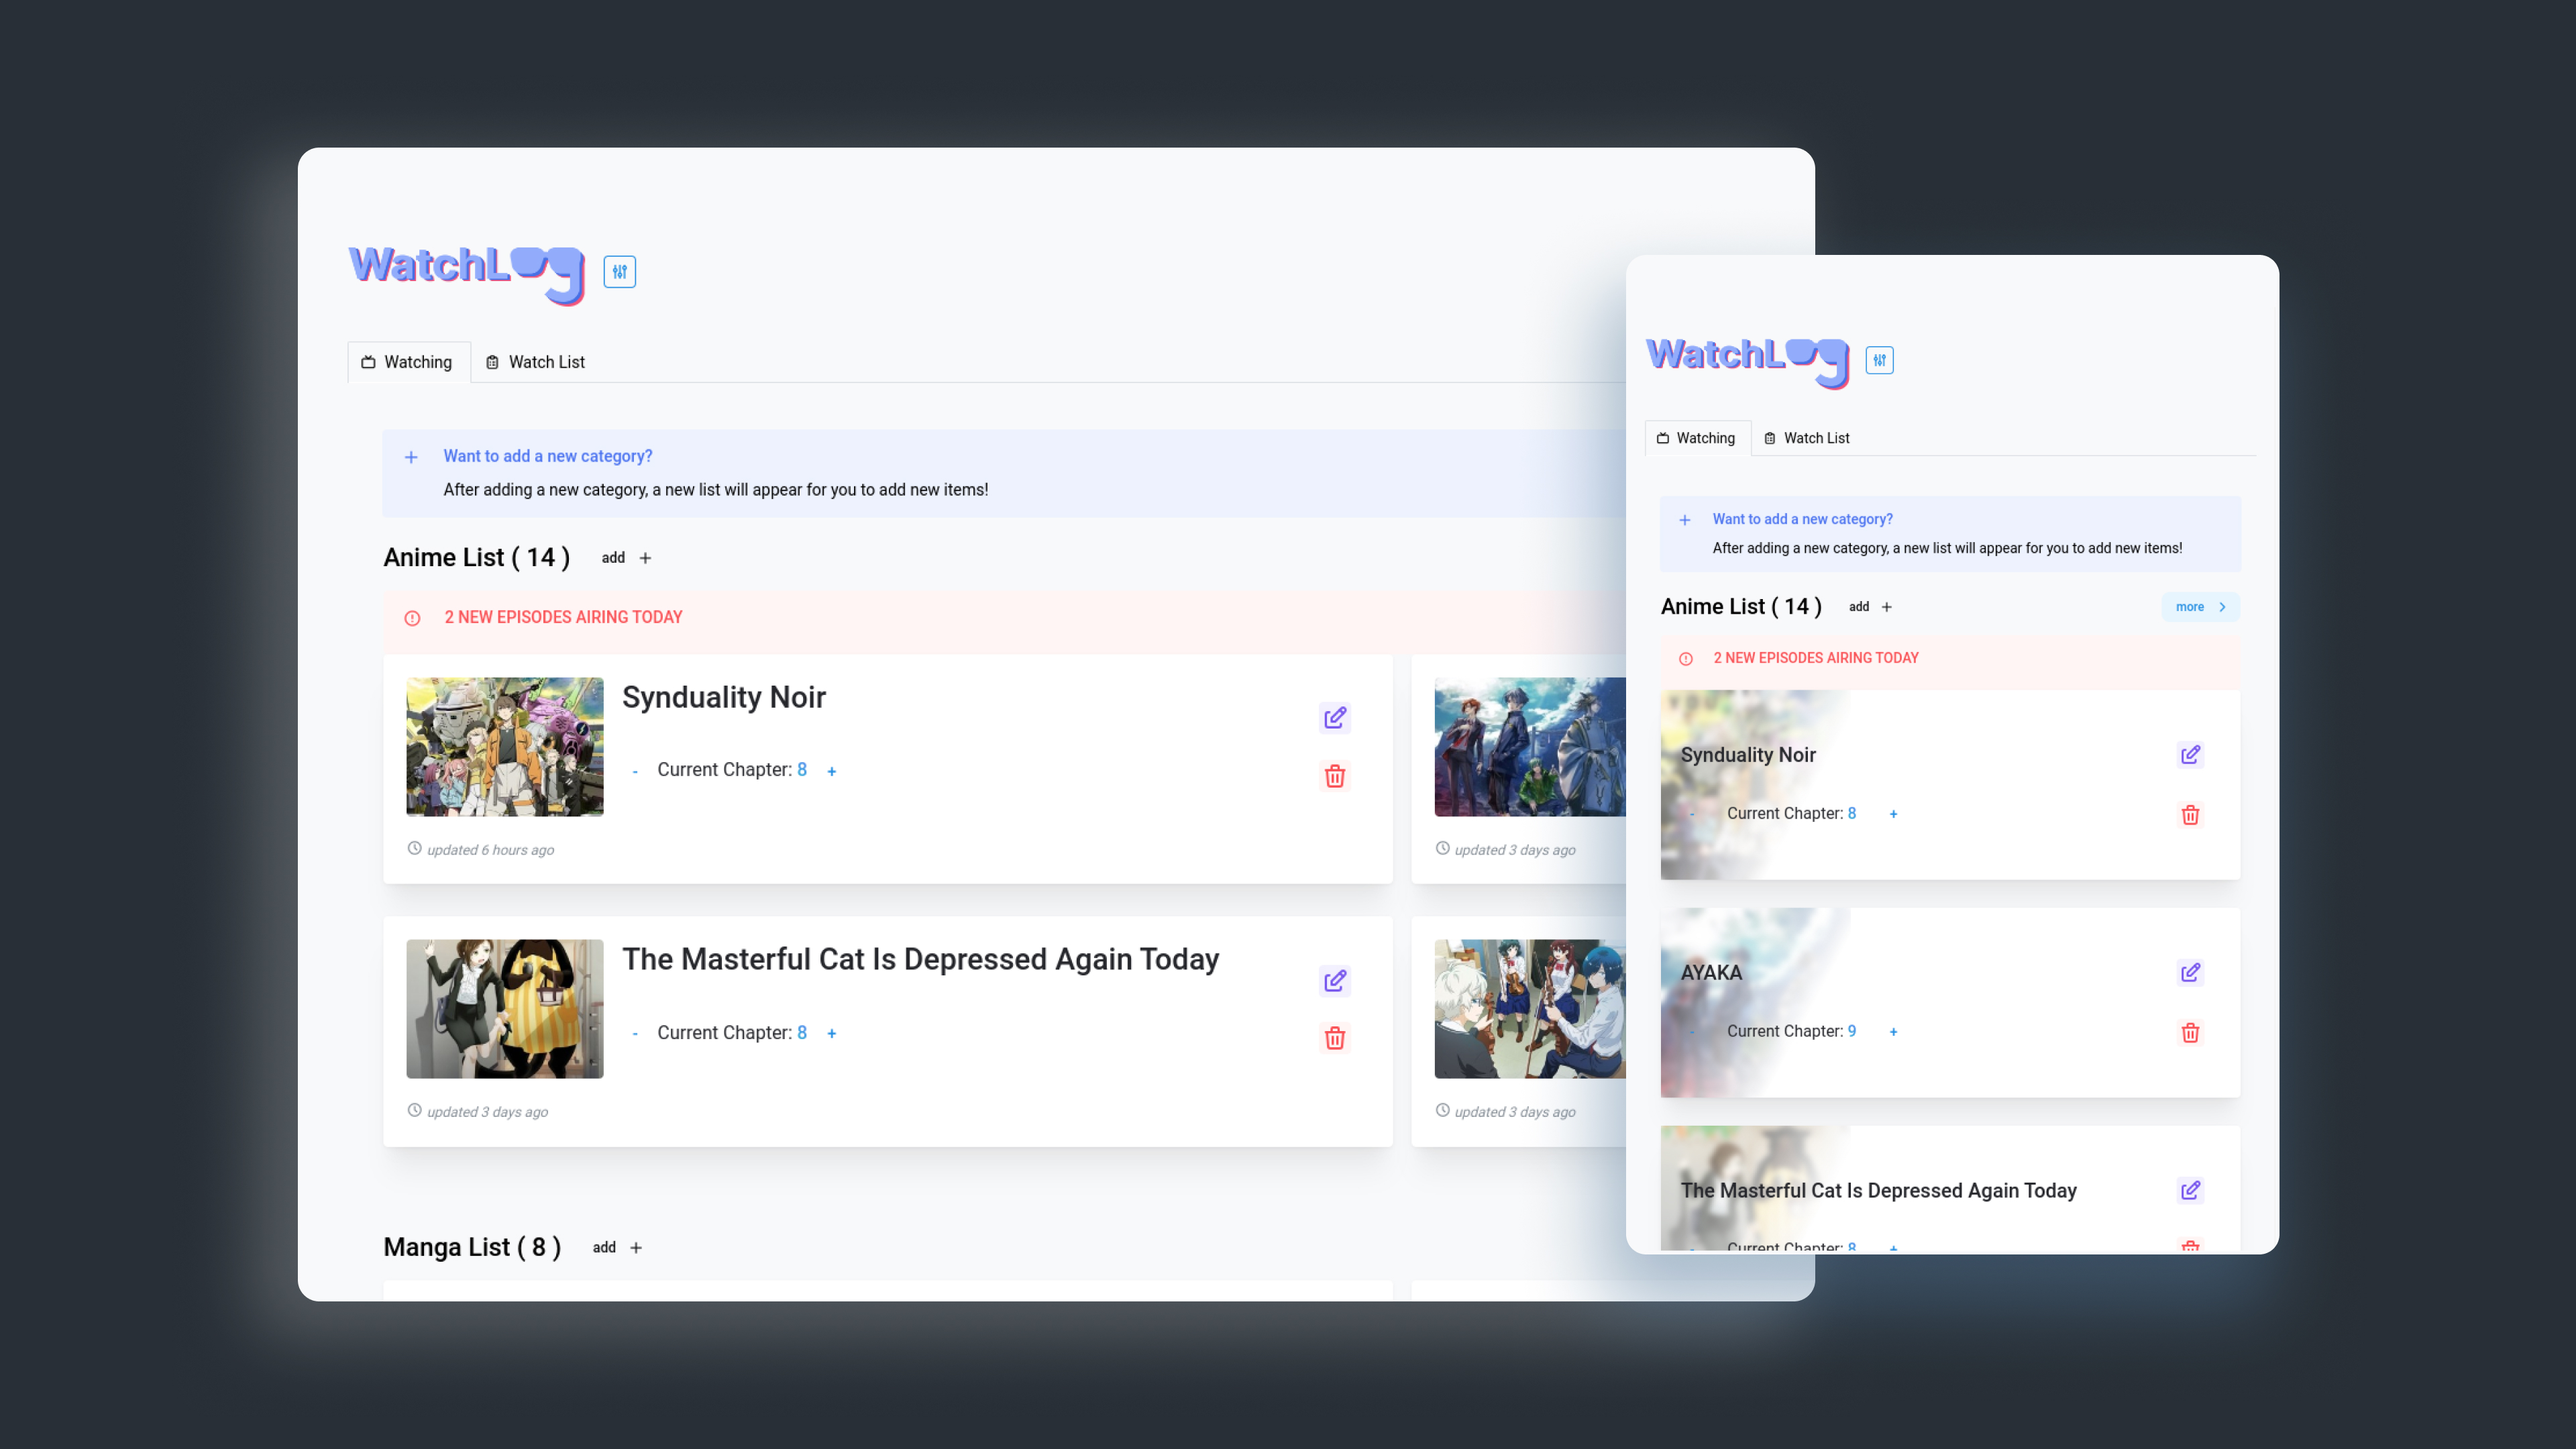
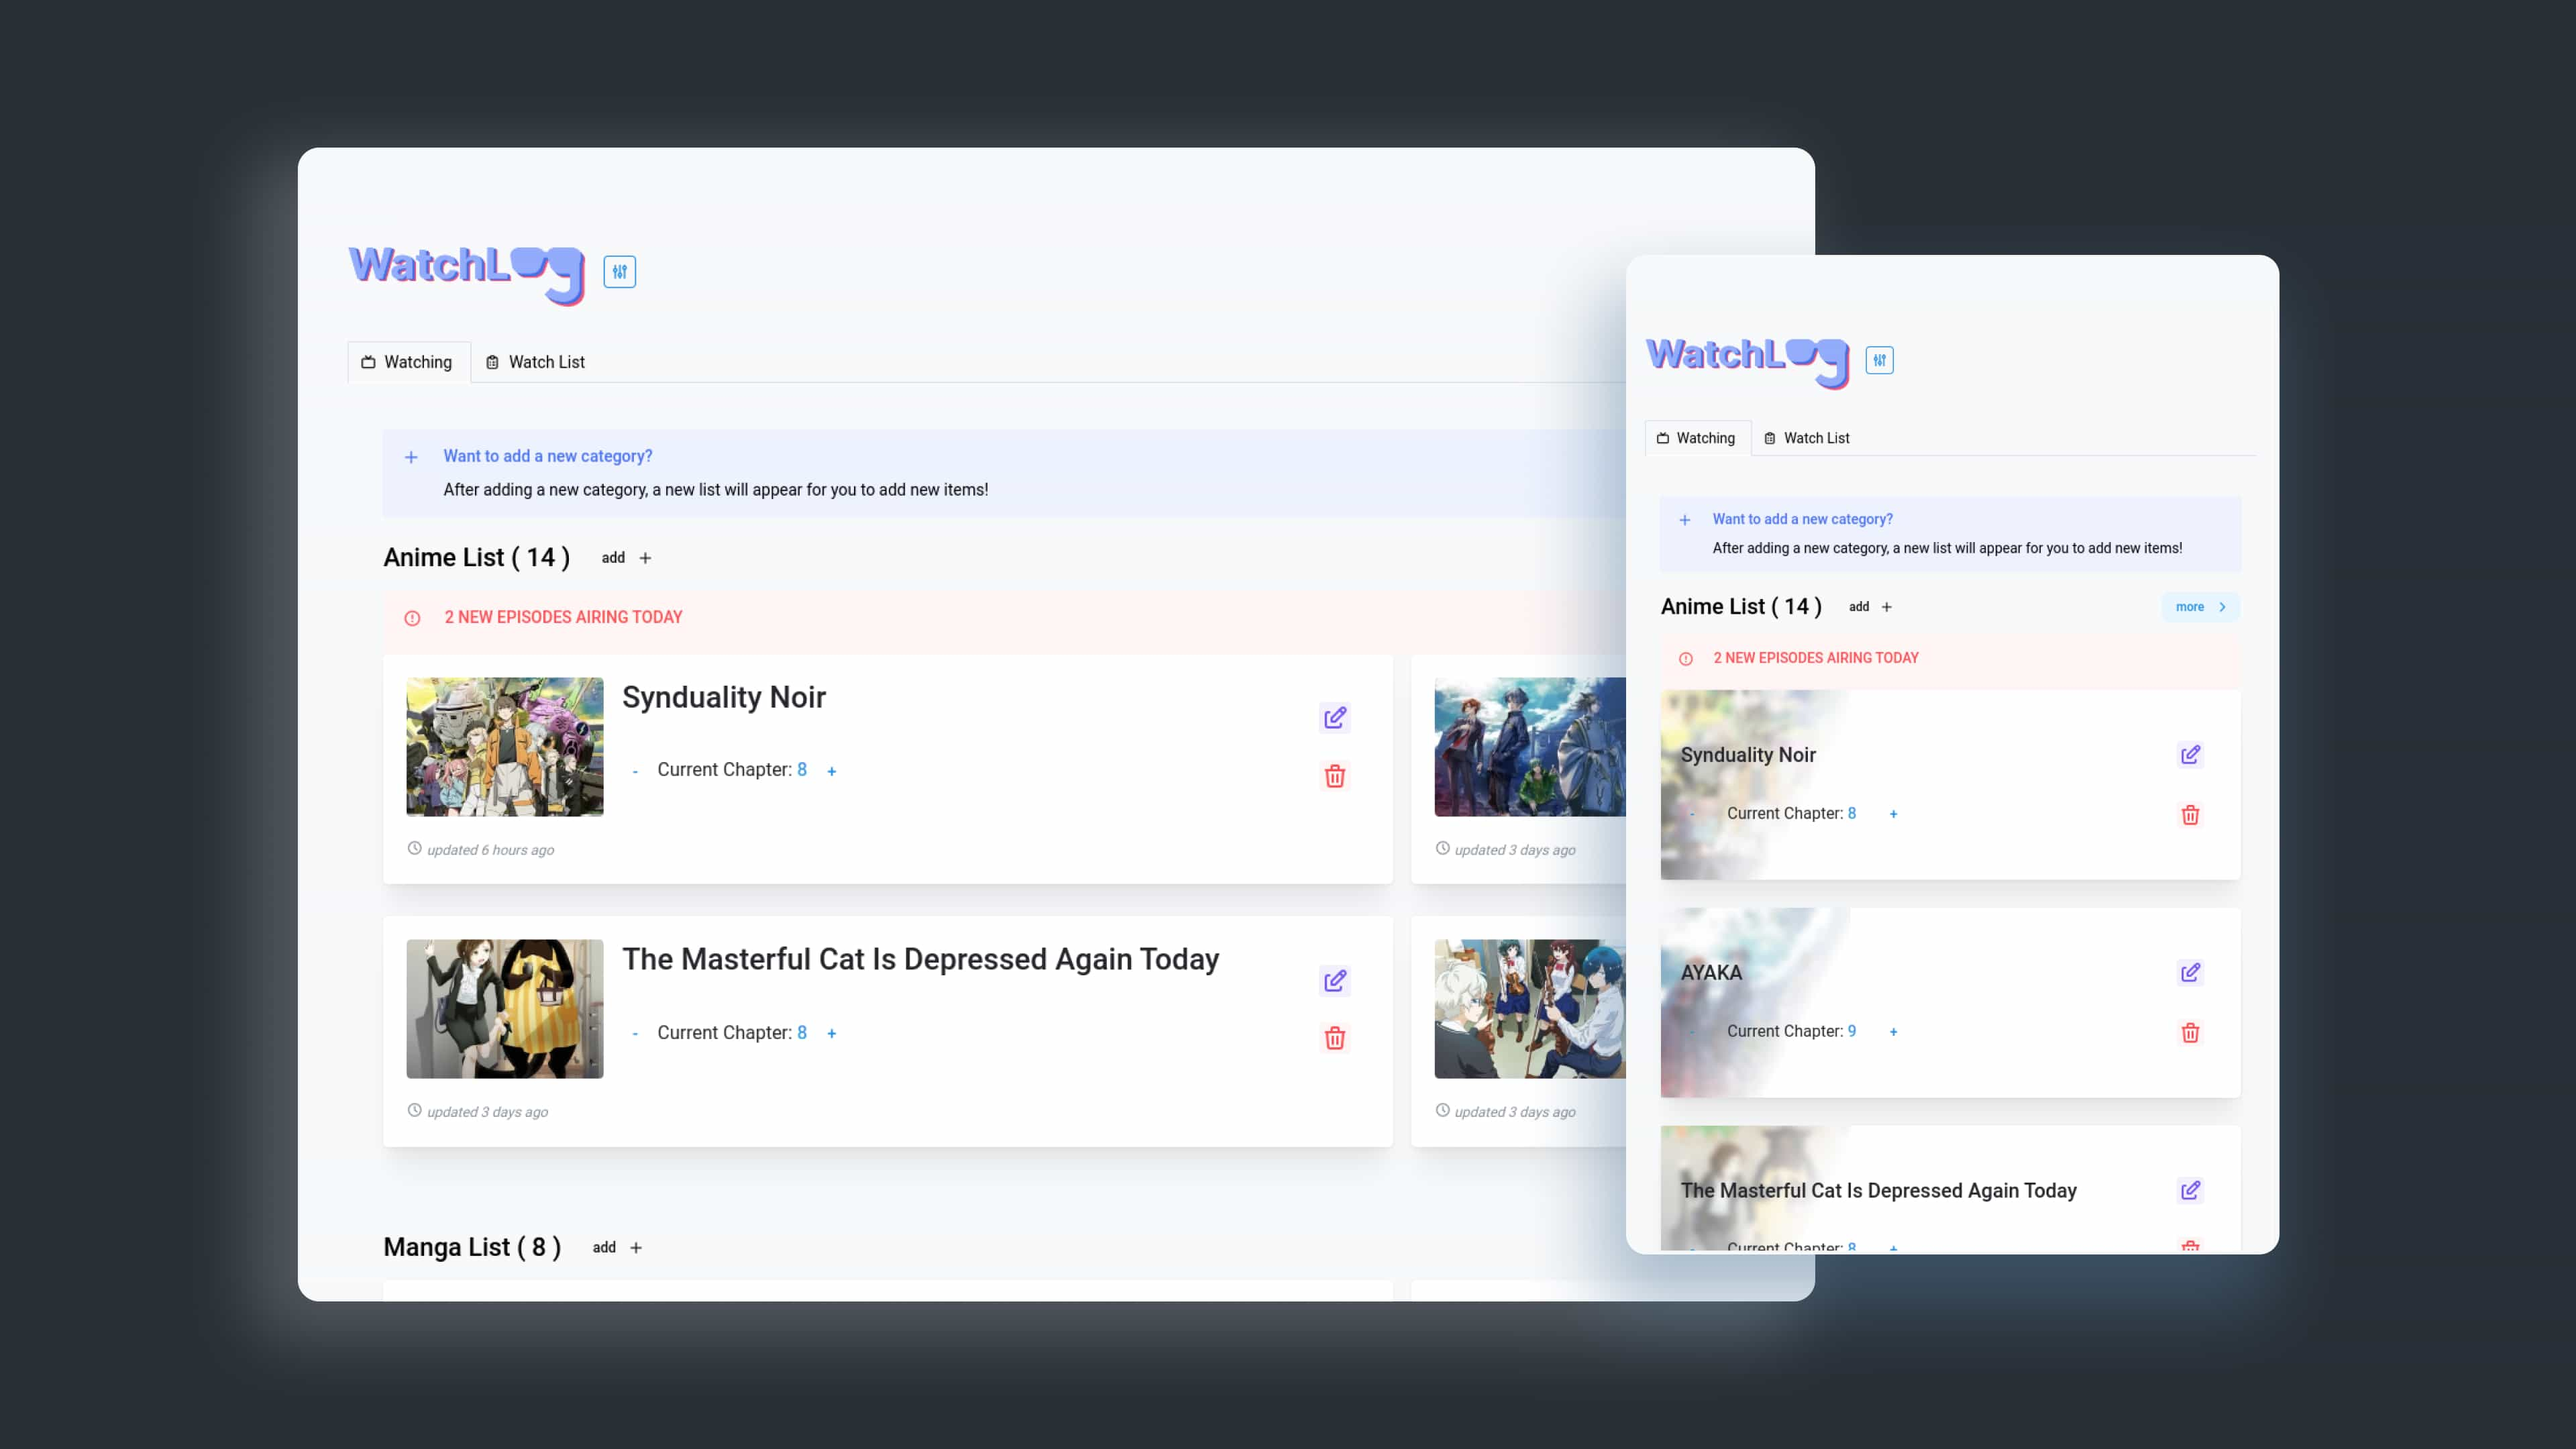
add optimized images

Changed region(s): [[0.2188, 0.3102, 0.25, 0.3412]]

diff --git a/dist/index.html b/dist/index.html
@@ -10,7 +10,7 @@
     <link href="https://fonts.googleapis.com/css2?family=Poppins:wght@400;600;700&display=swap" rel="stylesheet">
     
     <title>Gary Berkman</title>
-    <script type="module" crossorigin src="/portfolio/assets/index.b2e54f9a.js"></script>
+    <script type="module" crossorigin src="/portfolio/assets/index.c2ec7b79.js"></script>
     <link rel="stylesheet" href="/portfolio/assets/index.7c2e6a3b.css">
   </head>
   <body>
